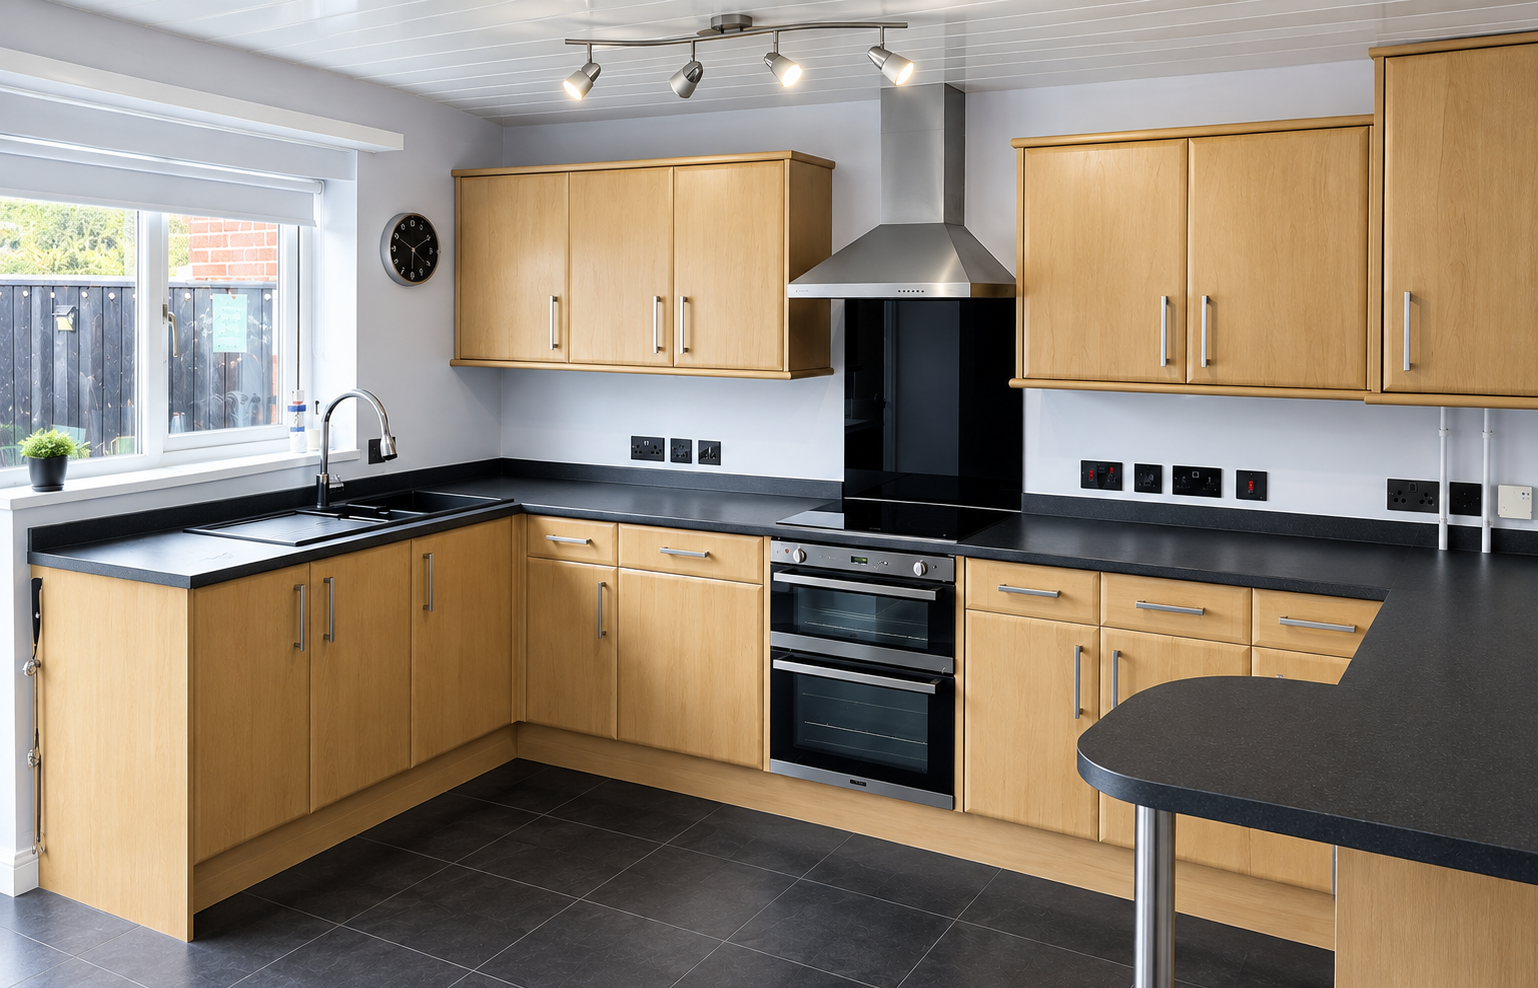
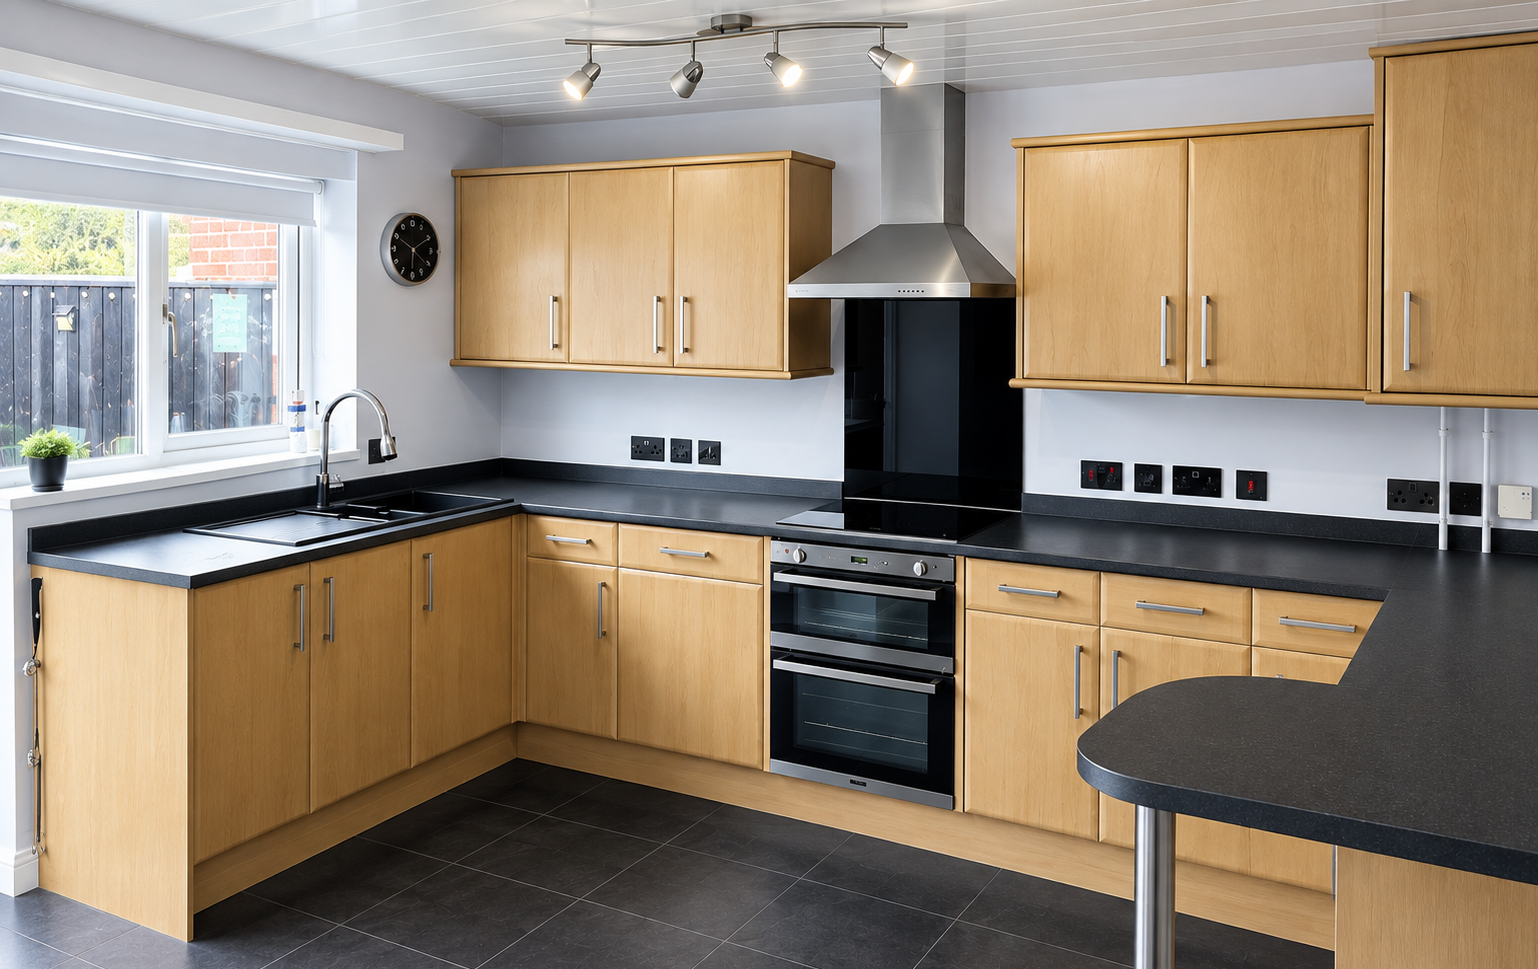
commercial page updates after intial upload

diff --git a/src/pages/CommercialPage.jsx b/src/pages/CommercialPage.jsx
@@ -4,19 +4,13 @@ import {
   ChefHat,
   ConciergeBell,
   DoorClosed,
-  GlassWater,
   Hotel,
   MoveVertical,
   Sofa,
   Store,
   Table2,
+  Grid2x2,
 } from "lucide-react";
-import {
-  Accordion,
-  AccordionContent,
-  AccordionItem,
-  AccordionTrigger,
-} from "@/components/ui/accordion";
 import { Image } from "@/components/ui/image";
 import Navbar from "@/components/chameleon/Navbar";
 import Footer from "@/components/chameleon/Footer";
@@ -27,27 +21,30 @@ const WRAP_CATEGORIES = [
   {
     icon: Building2,
     title: "Offices",
-    blurb: "Desks, partitions, doors and cabinetry refreshed with minimal downtime.",
+    blurb:
+      "Desks, partitions, doors and window sills updated with minimal downtime.",
   },
   {
     icon: Store,
     title: "Retail & Showrooms",
-    blurb: "Customer-facing surfaces updated without disrupting trading hours.",
+    blurb: "Customer-facing surfaces refreshed with new or seasonal branding.",
   },
   {
     icon: Hotel,
     title: "Hotels & Hospitality",
-    blurb: "Reception counters, bars and fitted furniture wrapped to a premium finish.",
+    blurb: "Reception counters, bars and fitted furniture wrapped in place.",
   },
   {
     icon: MoveVertical,
     title: "Lifts",
-    blurb: "Lift doors and surrounding panels transformed in place.",
+    blurb:
+      "Lift doors and surrounding panels wrapped in our premium vinyl to really elevate the look.",
   },
   {
     icon: ChefHat,
     title: "Commercial Kitchens",
-    blurb: "Cabinet doors and worktops wrapped in durable, easy-clean finishes.",
+    blurb:
+      "Cabinet doors and worktops wrapped in durable, easy-clean finishes that can be removed and replaced at any time.",
   },
   {
     icon: Sofa,
@@ -60,9 +57,10 @@ const WRAP_CATEGORIES = [
     blurb: "Existing doors and frames refreshed without full replacement.",
   },
   {
-    icon: GlassWater,
+    icon: Grid2x2,
     title: "Glass & Glazing",
-    blurb: "Frosted, coloured and decorative films for windows and partitions.",
+    blurb:
+      "Frosted, coloured, branded and decorative films for windows and partitions.",
   },
   {
     icon: ConciergeBell,
@@ -90,16 +88,17 @@ const SURFACES = [
   "Laminate",
   "Metal",
   "Glass",
-  "Existing fitted furniture",
-  "Doors",
-  "Cabinets",
-  "Worktops",
-  "Lift panels",
+  "Selected plastics",
+  "Composite materials",
+  "Smooth sealed surfaces",
 ];
 
 const FINISHES = [
+  "Digital graphics",
+  "Custom Branding",
   "Wood-effect",
-  "Stone & marble",
+  "Marble",
+  "Stone",
   "Metal",
   "Matte",
   "Gloss",
@@ -111,22 +110,26 @@ const PROCESS_STEPS = [
   {
     n: "01",
     title: "Consultation",
-    blurb: "Tell us about your commercial space and what you'd like to transform.",
+    blurb:
+      "Tell us about your commercial space and what you'd like to transform.",
   },
   {
     n: "02",
     title: "Site Assessment",
-    blurb: "We assess the existing surfaces, measurements and project requirements.",
+    blurb:
+      "We assess the existing surfaces, measurements and project requirements.",
   },
   {
     n: "03",
     title: "Quote",
-    blurb: "You receive a clear, no-obligation quotation based on the scope of work.",
+    blurb:
+      "You receive a clear, no-obligation quotation based on the scope of work.",
   },
   {
     n: "04",
     title: "Preparation",
-    blurb: "Surfaces are prepared to ensure the vinyl can be installed correctly.",
+    blurb:
+      "Surfaces are prepared to ensure the vinyl can be installed correctly.",
   },
   {
     n: "05",
@@ -136,7 +139,8 @@ const PROCESS_STEPS = [
   {
     n: "06",
     title: "Completion",
-    blurb: "Your newly transformed space is inspected and handed back ready to use.",
+    blurb:
+      "Your newly transformed space is inspected and handed back ready to use.",
   },
 ];
 
@@ -154,57 +158,6 @@ const WHY_CHAMELEON = [
   "Professional, tidy installation",
   "12-month warranty on lifts and peels",
   "Free, no-obligation quotations",
-];
-
-const FAQS = [
-  {
-    q: "How much does commercial vinyl wrapping cost?",
-    a: "Cost depends on the scope, surfaces and finish involved. Send us some photos and a few details about the space and we'll provide a free, no-obligation quotation.",
-  },
-  {
-    q: "Can you wrap office furniture?",
-    a: "Yes — desks, cabinets, partitions and other fitted furniture can usually be wrapped, subject to an assessment of the existing surface.",
-  },
-  {
-    q: "Can you wrap lift doors?",
-    a: "Yes, lift doors and surrounding panels can be transformed in place.",
-  },
-  {
-    q: "Can you wrap existing worktops?",
-    a: "In most cases, yes. Suitability depends on the worktop material and its current condition.",
-  },
-  {
-    q: "Can you wrap glass?",
-    a: "Yes, we can apply decorative and frosted films to glass and glazing.",
-  },
-  {
-    q: "How durable is commercial vinyl?",
-    a: "It's built to withstand everyday commercial use, though it isn't indestructible — we'll advise on the right finish for a high-traffic space.",
-  },
-  {
-    q: "How long does installation take?",
-    a: "This depends on the size and scope of the project — we'll confirm a timeframe as part of your quotation.",
-  },
-  {
-    q: "Will my business need to close during installation?",
-    a: "Not usually. We aim to work around your business wherever possible — this is discussed when we assess your project.",
-  },
-  {
-    q: "Can you work outside normal business hours?",
-    a: "This can often be arranged — let us know your requirements when you enquire.",
-  },
-  {
-    q: "What surfaces can be wrapped?",
-    a: "Most hard surfaces, including wood, MDF, laminate, metal and some glass. Every project is assessed individually.",
-  },
-  {
-    q: "Can you match our existing branding?",
-    a: "We work with a wide range of colours and finishes — get in touch to discuss your requirements.",
-  },
-  {
-    q: "Do you cover my area?",
-    a: "We're based in Newcastle upon Tyne and cover the surrounding North East. Get in touch and we'll confirm.",
-  },
 ];
 
 const buttonGold =
@@ -238,9 +191,9 @@ export default function CommercialPage() {
               <span className="italic text-[#B8860B]">Vinyl Wrapping</span>.
             </h1>
             <p className="mt-6 max-w-2xl text-base leading-relaxed text-white/75 sm:text-lg">
-              Transform commercial interiors, fitted furniture, doors,
-              worktops and glazing with premium architectural vinyl — without
-              the disruption and cost of full replacement.
+              Transform commercial interiors, lifts, windows and glass doors
+              with premium architectural vinyl — without the disruption and cost
+              of full replacement.
             </p>
             <div className="mt-9 flex flex-wrap items-center gap-4">
               <Link to="/contact" className={buttonGold}>
@@ -319,9 +272,8 @@ export default function CommercialPage() {
               ))}
             </div>
             <p className="mt-6 text-[13px] leading-relaxed text-white/40">
-              Suitability depends on the condition and material of your
-              existing surfaces — every commercial project is assessed
-              individually.
+              Suitability depends on the condition and material of your existing
+              surfaces — every commercial project is assessed individually.
             </p>
           </div>
         </section>
@@ -336,7 +288,8 @@ export default function CommercialPage() {
               MATERIALS & FINISHES
             </p>
             <h2 className="mt-4 font-display text-[clamp(2rem,5vw,3.75rem)] font-light leading-[1.05] tracking-[-0.02em] text-[#121212]">
-              Surfaces we <span className="italic text-[#4A5D4E]">transform</span>.
+              Surfaces we{" "}
+              <span className="italic text-[#4A5D4E]">transform</span>.
             </h2>
 
             <div className="mt-10 grid gap-10 sm:grid-cols-2">
@@ -424,13 +377,15 @@ export default function CommercialPage() {
               BUILT AROUND YOUR BUSINESS
             </p>
             <h2 className="mt-4 font-display text-[clamp(2rem,5vw,3.75rem)] font-light leading-[1.05] tracking-[-0.02em] text-[#121212]">
-              Keep your business <span className="italic text-[#B8860B]">moving</span>.
+              Keep your business{" "}
+              <span className="italic text-[#B8860B]">moving</span>.
             </h2>
             <p className="mt-6 max-w-xl text-base leading-relaxed text-[#121212]/70">
               Commercial refurbishment doesn&rsquo;t have to mean closing your
               space or major construction work. Vinyl wrapping transforms
               existing surfaces with far less disruption than a full
-              replacement.
+              replacement. In most cases we will work around you where possible
+              to minimize any disruption to your business operations.
             </p>
             <ul className="mt-8 grid gap-3 sm:grid-cols-2">
               {DISRUPTION_POINTS.map((point) => (
@@ -469,8 +424,8 @@ export default function CommercialPage() {
                 </h2>
                 <p className="mt-6 max-w-xl text-base leading-relaxed text-white/70">
                   Commercial cabinetry wrapped in a durable, seamless finish —
-                  the same hand-applied approach we use across offices,
-                  retail and hospitality projects.
+                  the same hand-applied approach we use across offices, retail
+                  and hospitality projects.
                 </p>
                 <Link
                   to="/#work"
@@ -518,32 +473,9 @@ export default function CommercialPage() {
               FAQ — COMMERCIAL PROJECTS
             </p>
             <h2 className="mt-4 font-display text-[clamp(2rem,5vw,3.75rem)] font-light leading-[1.05] tracking-[-0.02em] text-[#121212]">
-              You asked, <span className="italic text-[#4A5D4E]">we answered</span>.
+              You asked,{" "}
+              <span className="italic text-[#4A5D4E]">we answered</span>.
             </h2>
-
-            <Accordion type="single" collapsible className="mt-12">
-              {FAQS.map((item, i) => (
-                <AccordionItem
-                  key={item.q}
-                  value={`commercial-faq-${i}`}
-                  className="border-b border-[#121212]/10">
-                  <AccordionTrigger className="group gap-4 py-6 text-left hover:no-underline [&>svg]:hidden">
-                    <span className="font-mono text-[10px] tracking-[0.25em] text-[#4A5D4E]">
-                      {String(i + 1).padStart(2, "0")}
-                    </span>
-                    <span className="flex-1 font-display text-lg font-normal leading-snug text-[#121212]">
-                      {item.q}
-                    </span>
-                    <span className="font-mono text-lg text-[#B8860B] transition-transform duration-300 group-data-[state=open]:rotate-45">
-                      +
-                    </span>
-                  </AccordionTrigger>
-                  <AccordionContent className="pb-6 pl-9 pr-8 text-base leading-relaxed text-[#121212]/60">
-                    {item.a}
-                  </AccordionContent>
-                </AccordionItem>
-              ))}
-            </Accordion>
           </div>
         </section>
 
@@ -554,13 +486,14 @@ export default function CommercialPage() {
           className="bg-[#121212] py-24 sm:py-32">
           <div className="mx-auto max-w-3xl px-6 text-center lg:px-10">
             <h2 className="font-display text-[clamp(2rem,5vw,3.75rem)] font-light leading-[1.05] tracking-[-0.02em] text-white">
-              Transform your commercial space,{" "}
-              <span className="italic text-[#B8860B]">without replacing it</span>.
+              To transform your commercial space,{" "}
+              <span className="italic block text-[#B8860B]">
+                Trust Chameleon.
+              </span>
             </h2>
             <p className="mx-auto mt-6 max-w-xl text-base leading-relaxed text-white/70">
-              Tell us what you&rsquo;d like to transform and we&rsquo;ll
-              assess your project and provide a tailored, no-obligation
-              quotation.
+              Tell us what you&rsquo;d like to transform and we&rsquo;ll assess
+              your project and provide a tailored, no-obligation quotation.
             </p>
             <div className="mt-9 flex flex-wrap items-center justify-center gap-4">
               <Link to="/contact" className={buttonGold}>
